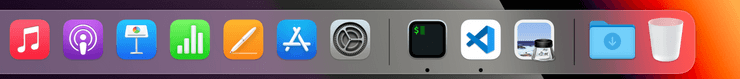
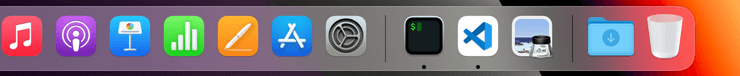
:sparkles: Improve some Dock screenshots

diff --git a/record/dock/show-recents/false.js b/record/dock/show-recents/false.js
@@ -7,7 +7,9 @@ module.exports = {
 
     try {
       const { screenWidth, screenHeight } = MacRunner.getScreenSize()
-      const dockHeight = MacRunner.getDockHeight()
+
+      // Dock gets larger when not showing most recent Apps
+      const dockHeight = MacRunner.getDockHeight() + 4
 
       const runner = new MacRunner()
       await runner

diff --git a/record/mac-runner.js b/record/mac-runner.js
@@ -22,7 +22,7 @@ class MacRunner {
    * @return {number} The Dock height
    */
   static getDockHeight() {
-    return 80
+    return 76
   }
 
   /**
